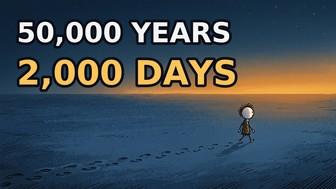
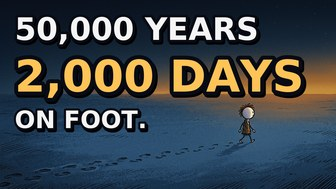
ancient_travel: bolder thumbnail text + one-shot Kaggle 'all' mode (render->measured youtube.txt->zip)

diff --git a/ancient_travel_video/make_youtube_txt.py b/ancient_travel_video/make_youtube_txt.py
@@ -1,0 +1,121 @@
+#!/usr/bin/env python3
+"""Write ancient_travel_video/youtube.txt from MEASURED Kaggle output only.
+
+Runs on Kaggle AFTER render. Refuses to run unless both the rendered video
+and build/timings.csv exist. Every number in the output is measured:
+  - runtime      : ffprobe of ancient_travel_FINAL.mp4
+  - chapters     : hold_start_s of each section's first beat in build/timings.csv
+Never run this from estimates.
+"""
+from __future__ import annotations
+
+import csv
+import sys
+from pathlib import Path
+
+REPO = Path(__file__).resolve().parent.parent
+sys.path.insert(0, str(REPO))
+
+from vidsync.media import probe_duration  # measured, never estimated
+
+VIDEO = REPO / "ancient_travel_FINAL.mp4"
+TIMINGS = REPO / "build" / "timings.csv"
+OUT = REPO / "ancient_travel_video" / "youtube.txt"
+
+TITLE = "It Took Them 2,000 Days to Walk to the End of the World"
+
+# Section-start beats -> chapter titles (slide map locked in STATE 5)
+CHAPTERS = [
+    ("beat01m01", "The beach where it started"),
+    ("beat07m01", "Born to outrun everything"),
+    ("beat11m01", "Life at walking speed"),
+    ("beat17m01", "Maps made of songs"),
+    ("beat21m01", "Crossing the open sea"),
+    ("beat26m01", "Beringia and the kelp highway"),
+    ("beat32m01", "Into the Americas"),
+    ("beat37m01", "The man still walking it"),
+]
+
+DESCRIPTION = """Your ancestors walked out of Africa and didn't stop until they hit the end of the world — Tierra del Fuego, 42,000 km away. The actual walking? About 2,000 days. The journey? 50,000 years. This is the story of the greatest walk in history, and why your body is still built for it.
+
+No one alive has finished it on foot — except one man, who is trying right now.
+"""
+
+TAGS = (
+    "human migration, out of africa, prehistory, walking, persistence hunting, "
+    "songlines, beringia, white sands footprints, paul salopek, out of eden walk, "
+    "tierra del fuego, ancient humans, history documentary"
+)
+
+SOURCES = """Sources:
+1. Out of Africa main dispersal ~60-70 ka - sciencedaily.com/releases/2017/12/171207141724.htm
+2. Endurance anatomy - Bramble & Lieberman, Nature 2004 (doi:10.1038/nature03052)
+3. Persistence hunting in the Kalahari - Liebenberg, Current Anthropology 2006 (doi:10.1086/508695)
+4. Hadza daily travel distances - nature.com/articles/s41562-020-01002-7
+5. Camp relocation distances - Marlowe 2010 / O'Connell 1988
+6. Songlines as oral maps - walkingoncountry.com.au/what-is-a-songline/
+7. Sahul sea crossing + Madjedbebe ~65 ka - australiangeographic.com.au (2017)
+8. Beringia and the kelp highway - scienceinsights.org/what-was-beringia-the-land-bridge-to-the-americas/
+9. White Sands footprints 23-21 ka - npr.org/2021/09/24/1040381802
+10. Longest prehistoric migration >20,000 km - NTU/GenomeAsia100K, Science 2025
+11. Tierra del Fuego earliest occupation ~11 ka (Tres Arroyos)
+12. Paul Salopek, Out of Eden Walk - outofedenwalk.nationalgeographic.org
+"""
+
+
+def mmss(t: float) -> str:
+    t = int(round(t))
+    return f"{t // 60:02d}:{t % 60:02d}"
+
+
+def main() -> int:
+    if not VIDEO.exists():
+        print("make_youtube_txt: ancient_travel_FINAL.mp4 missing - render first", file=sys.stderr)
+        return 2
+    if not TIMINGS.exists():
+        print("make_youtube_txt: build/timings.csv missing - dry-run first", file=sys.stderr)
+        return 2
+
+    starts = {}
+    with TIMINGS.open(newline="", encoding="utf-8") as fh:
+        for row in csv.DictReader(fh):
+            starts[row["id"]] = float(row["hold_start_s"])
+
+    missing = [bid for bid, _ in CHAPTERS if bid not in starts]
+    if missing:
+        print(f"make_youtube_txt: beats missing from timings.csv: {missing}", file=sys.stderr)
+        return 2
+
+    runtime = probe_duration(VIDEO)  # measured from the rendered file
+
+    chapter_lines = []
+    prev = -10.0
+    for i, (bid, label) in enumerate(CHAPTERS):
+        t = 0.0 if i == 0 else starts[bid]
+        if i > 0 and t - prev < 10.0:
+            print(f"make_youtube_txt: chapter '{label}' starts <10s after previous "
+                  f"({t:.1f}s) - YouTube requires >=10s; aborting", file=sys.stderr)
+            return 3
+        prev = t
+        chapter_lines.append(f"{mmss(t)} {label}")
+
+    body = (
+        f"TITLE\n{TITLE}\n\n"
+        f"RUNTIME (measured from rendered file)\n{mmss(runtime)} ({runtime:.2f} s)\n\n"
+        f"DESCRIPTION\n{DESCRIPTION}\n"
+        f"Chapters:\n" + "\n".join(chapter_lines) + "\n\n"
+        f"{SOURCES}\n"
+        f"TAGS\n{TAGS}\n\n"
+        f"THUMBNAIL\nancient_travel_video/thumbnail.jpg (baked text: 50,000 YEARS / 2,000 DAYS / ON FOOT.)\n\n"
+        f"PROVENANCE\nRuntime measured by ffprobe on ancient_travel_FINAL.mp4; chapter times are\n"
+        f"hold_start_s values from build/timings.csv (measured word-boundary sync, Phase 4).\n"
+    )
+    OUT.write_text(body, encoding="utf-8")
+    print(f"youtube.txt written: runtime {mmss(runtime)}, {len(CHAPTERS)} chapters")
+    for line in chapter_lines:
+        print(" ", line)
+    return 0
+
+
+if __name__ == "__main__":
+    sys.exit(main())
